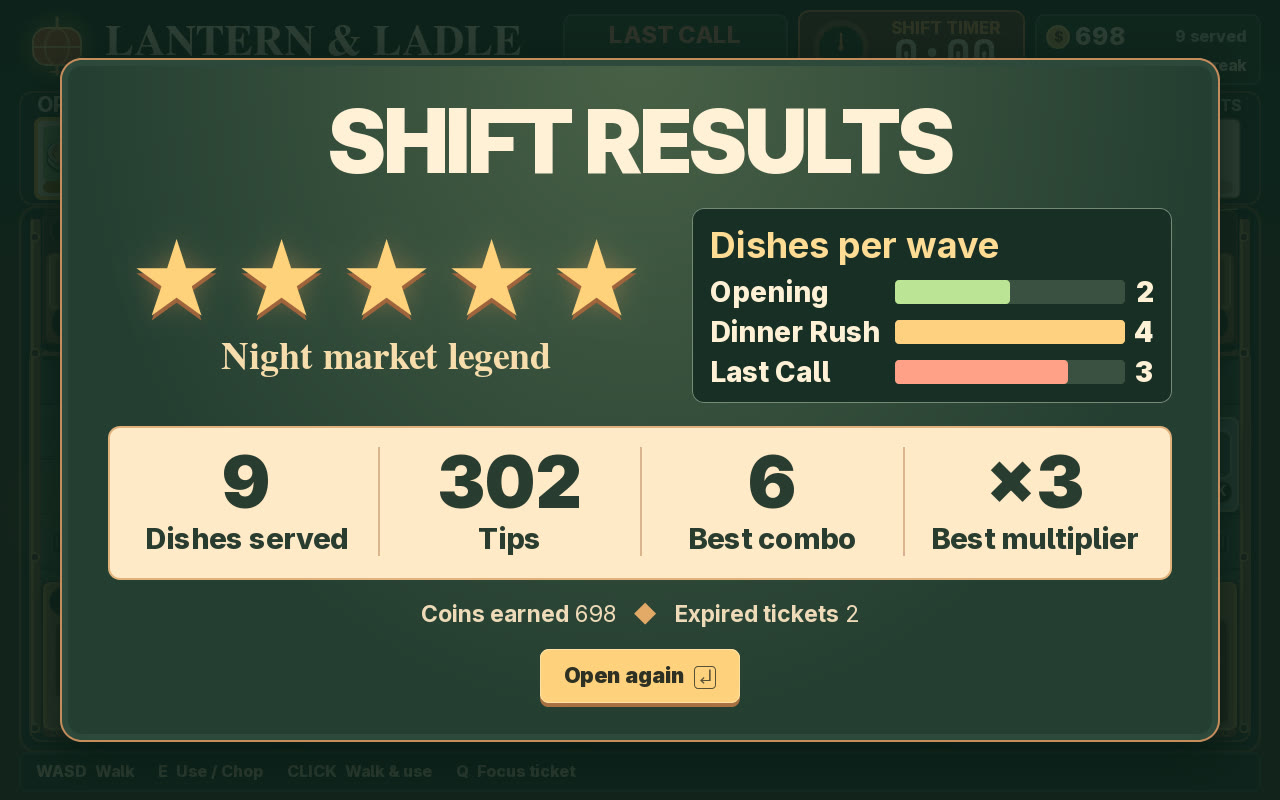
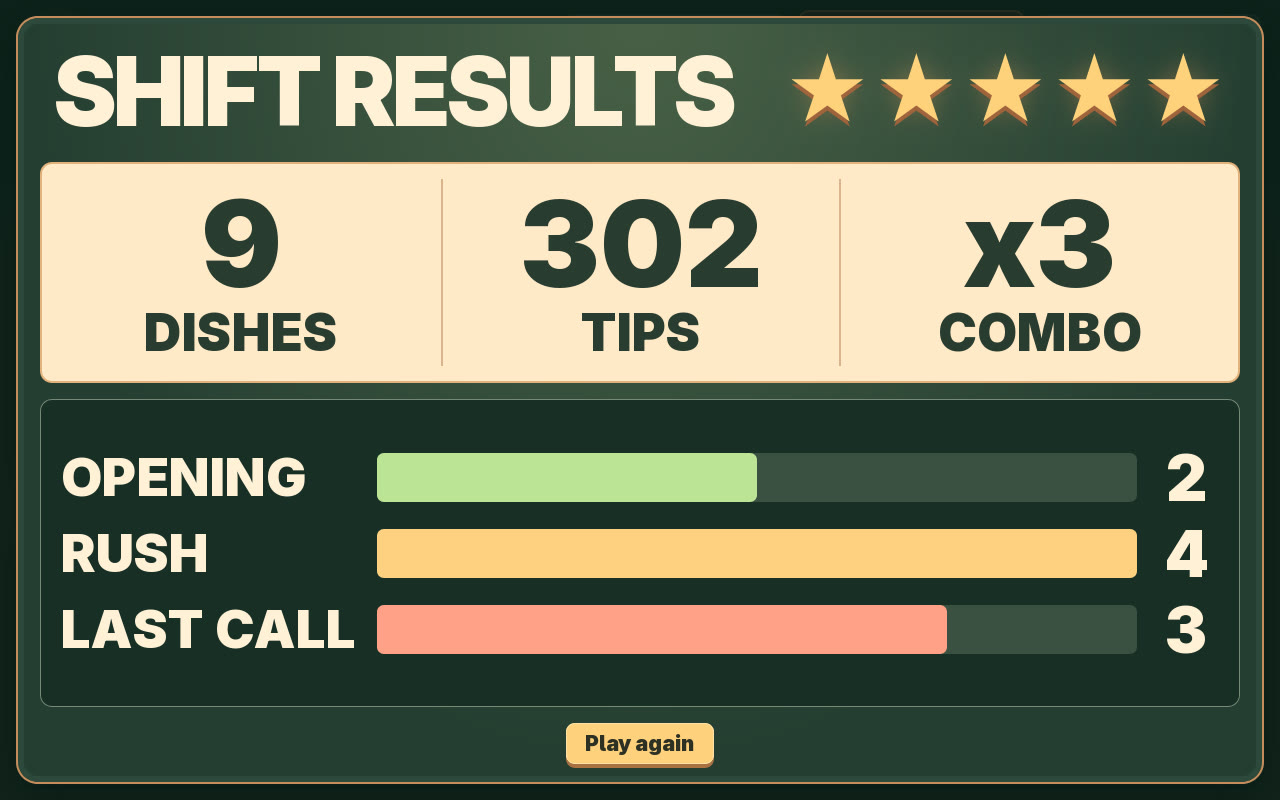
v16: readable shift results with per-wave breakdown

diff --git a/game/src/ui.js b/game/src/ui.js
@@ -275,33 +275,49 @@ function titleScreen() {
 
 function resultsScreen(state) {
   const stars = shiftStars(state);
-  const ranks = ['Quiet closing', 'First plate out', 'Finding your feet', 'Dinner delivered', 'Market favorite', 'Night market legend'];
+  const showcase = state.shot === 'results';
+  const rating = `<div class="stars" role="img" aria-label="${stars} out of 5 stars">
+    ${Array.from({ length: 5 }, (_, index) => `<span aria-hidden="true" class="${index < stars ? 'earned' : ''}">★</span>`).join('')}
+  </div>`;
   const waveMax = Math.max(1, ...state.servedByWave);
+  const waveChart = `<section class="wave-chart" aria-label="Dishes served per wave">
+    ${showcase ? '' : '<h2>Dishes per wave</h2>'}
+    <ul>
+      ${serviceWaves.map((wave, index) => `<li>
+        <span>${showcase ? wave.name.replace('Dinner ', '') : wave.name}</span>
+        <div class="wave-track" aria-hidden="true"><i style="width:${100 * state.servedByWave[index] / waveMax}%;background:${wave.color}"></i></div>
+        <strong>${state.servedByWave[index]}</strong>
+      </li>`).join('')}
+    </ul>
+  </section>`;
+  const multiplier = comboMultiplier(state.bestCombo);
+  if (showcase) {
+    return `<div class="sheet results-sheet results-showcase">
+      <header><h1>Shift Results</h1>${rating}</header>
+      <div class="receipt">
+        <div><strong>${state.served}</strong><span>Dishes</span></div>
+        <div><strong>${state.tips}</strong><span>Tips</span></div>
+        <div><strong>x${multiplier}</strong><span>Combo</span></div>
+      </div>
+      ${waveChart}
+      <button class="primary" data-command="start">Play again</button>
+    </div>`;
+  }
+  const ranks = ['Quiet closing', 'First plate out', 'Finding your feet', 'Dinner delivered', 'Market favorite', 'Night market legend'];
   return `<div class="sheet results-sheet">
     <h1>Shift Results</h1>
     <div class="result-overview">
       <div class="result-rating">
-        <div class="stars" role="img" aria-label="${stars} out of 5 stars">
-          ${Array.from({ length: 5 }, (_, index) => `<span aria-hidden="true" class="${index < stars ? 'earned' : ''}">★</span>`).join('')}
-        </div>
+        ${rating}
         <p class="result-rank">${ranks[stars]}</p>
       </div>
-      <section class="wave-chart" aria-label="Dishes served per wave">
-        <h2>Dishes per wave</h2>
-        <ul>
-          ${serviceWaves.map((wave, index) => `<li>
-            <span>${wave.name}</span>
-            <div class="wave-track" aria-hidden="true"><i style="width:${100 * state.servedByWave[index] / waveMax}%;background:${wave.color}"></i></div>
-            <strong>${state.servedByWave[index]}</strong>
-          </li>`).join('')}
-        </ul>
-      </section>
+      ${waveChart}
     </div>
     <div class="receipt">
       <div><strong>${state.served}</strong><span>Dishes served</span></div>
       <div><strong>${state.tips}</strong><span>Tips</span></div>
       <div><strong>${state.bestCombo}</strong><span>Best combo</span></div>
-      <div><strong>×${comboMultiplier(state.bestCombo)}</strong><span>Best multiplier</span></div>
+      <div><strong>×${multiplier}</strong><span>Best multiplier</span></div>
     </div>
     <p class="receipt-details"><b>Coins earned</b> ${state.coins} <span>◆</span> <b>Expired tickets</b> ${state.missed}</p>
     <button class="primary" data-command="start">Open again <kbd>↵</kbd></button>

diff --git a/game/ui.css b/game/ui.css
@@ -255,6 +255,47 @@ button:focus-visible { outline: 3px solid #ffa86e; outline-offset: 5px; }
 .receipt span { font-size: 29px; font-weight: 800; margin-top: 6px; }
 .results-sheet .receipt-details { color: #efdab9; font-size: 23px; margin: 20px 0 21px; }
 .receipt-details span { color: #e4a968; padding: 0 10px; }
+.results-showcase {
+  width: 1248px;
+  height: 768px;
+  display: grid;
+  grid-template-rows: 110px 221px 1fr auto;
+  gap: 16px;
+  padding: 18px 22px;
+}
+.results-showcase header {
+  display: flex;
+  justify-content: space-between;
+  align-items: center;
+  padding: 0 13px;
+}
+.results-showcase h1 { font-size: 96px; }
+.results-showcase .stars { font-size: 83px; gap: 2px; }
+.results-showcase .receipt {
+  grid-template-columns: repeat(3, 1fr);
+  align-items: stretch;
+  padding: 15px 0;
+}
+.results-showcase .receipt div { display: grid; place-content: center; }
+.results-showcase .receipt strong { font-size: 120px; font-weight: 900; }
+.results-showcase .receipt span {
+  font-size: 52px;
+  font-weight: 900;
+  line-height: 1;
+  text-transform: uppercase;
+}
+.results-showcase .wave-chart { padding: 14px 20px; display: grid; align-items: center; }
+.results-showcase .wave-chart ul { gap: 12px; margin: 0; }
+.results-showcase .wave-chart li {
+  grid-template-columns: 300px 1fr 66px;
+  gap: 16px;
+  font-size: 53px;
+  font-weight: 900;
+  text-transform: uppercase;
+}
+.results-showcase .wave-track { height: 49px; border-radius: 7px; }
+.results-showcase .wave-chart strong { font-size: 64px; text-align: center; }
+.results-showcase .primary { justify-self: center; padding: 7px 18px; }
 .pause-sheet { text-align: center; width: 620px; padding: 48px 34px; }
 .pause-sheet .primary, .pause-sheet .quiet { margin: 27px 5px 0; }
 .visually-hidden {
